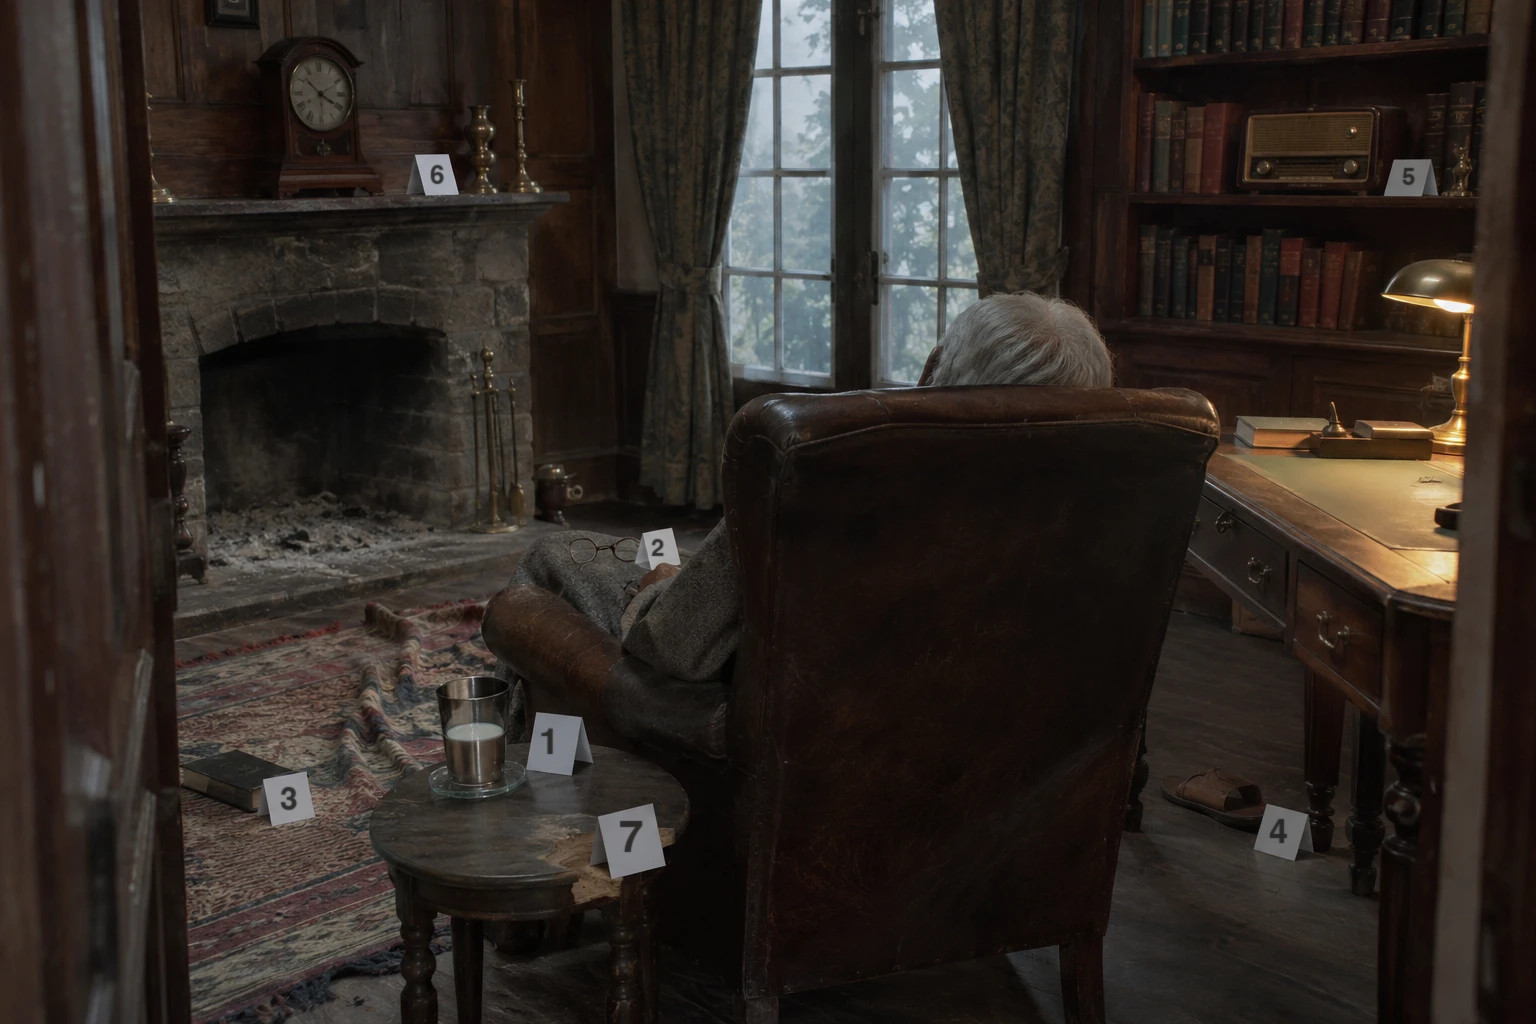
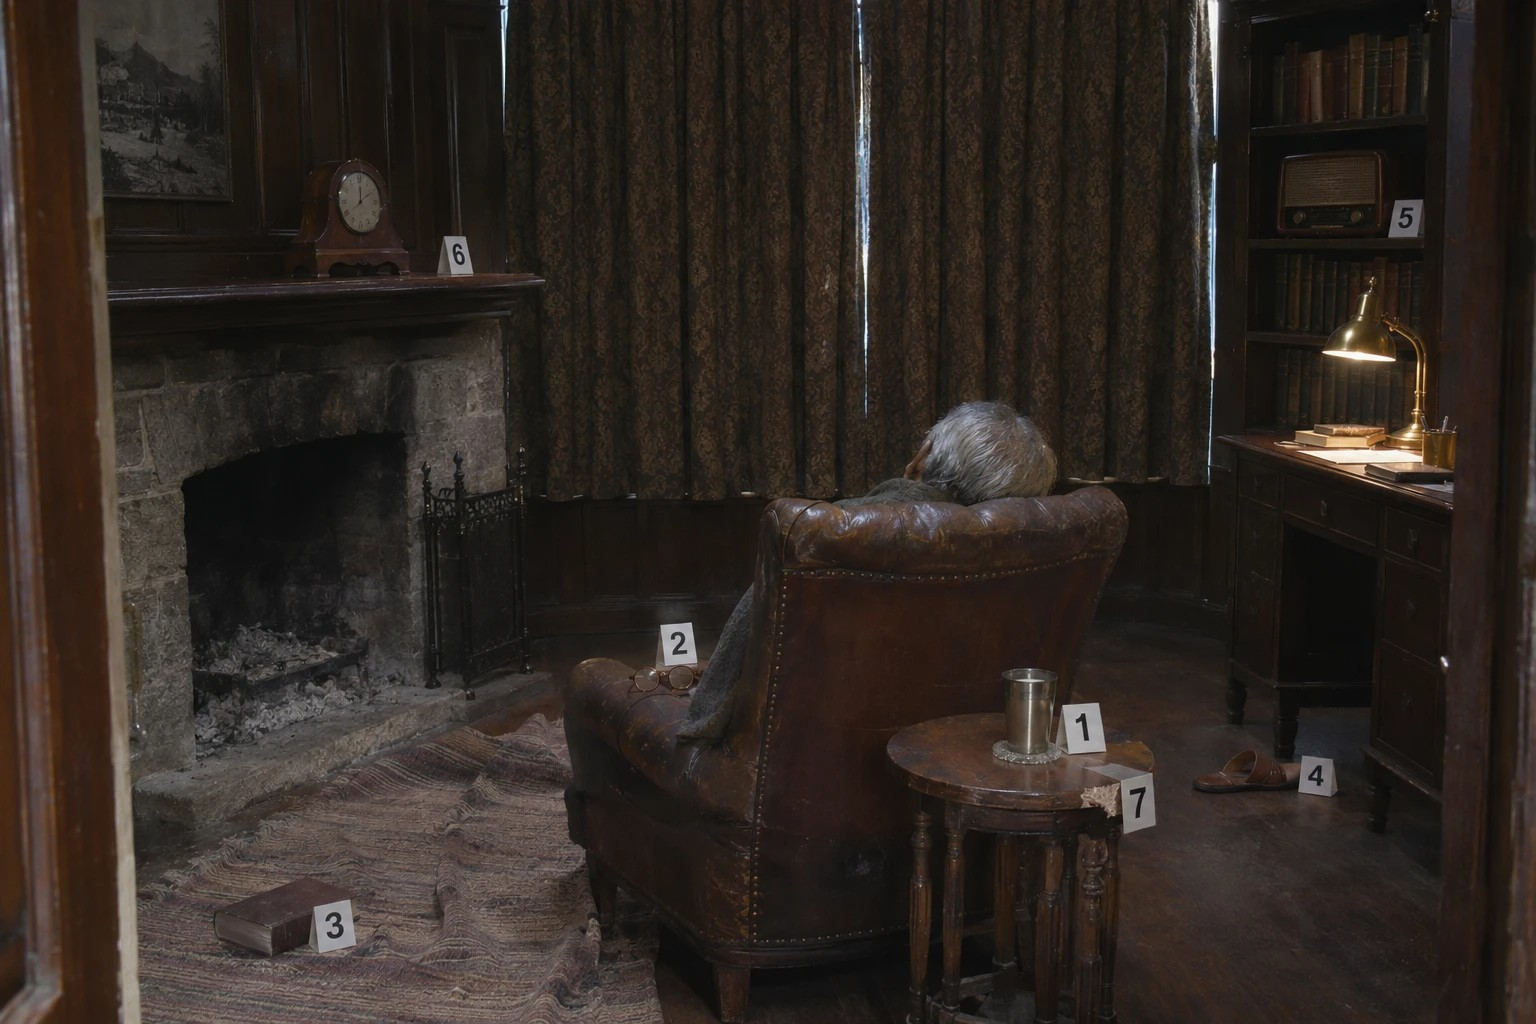
Replace the study and nurse ID photos
Study: curtains now drawn, as the inquest and narration say, with the seven
evidence markers numbered in the photo. Nurse ID: a worn 2011 print whose
face is lost to water damage and scratches; frame set to its 4:5 shape.

diff --git a/components/evidence/round5.tsx b/components/evidence/round5.tsx
@@ -231,7 +231,7 @@ export function ServiceCard() {
         </div>
         <div>
           <div style={{ border: "1px solid var(--ink-2)", padding: 4, background: "#f1e9d8" }}>
-            <ImageSlot file="exhibit-33-id-photo.jpg" ratio="1 / 1" label="ID photo" alt="Faded 2011 ID photo, cropped below the face: a young woman in a white nurse's uniform with a blank name badge, dark hair tied back." />
+            <ImageSlot file="exhibit-33-id-photo.jpg" ratio="4 / 5" label="ID photo" alt="Worn 2011 ID photo of a young woman in a white nurse's uniform and cap, with a small nose stud; water damage and scratches have worn away her eyes and upper face." />
           </div>
           <div className="small" style={{ textAlign: "center", marginTop: 4 }}>Attested</div>
         </div>
